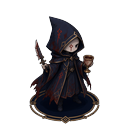
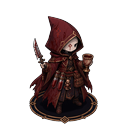
art: replace official 8-ally idles with approved color and gear pass
Swap in the approved Q-version idles with stronger per-role color accents and 5–7 obvious gear pieces, and note that density in STYLE_GUIDE and USAGE.

Changed region(s): [[0.2188, 0.125, 0.7812, 0.9688], [0.3438, 0.8125, 0.375, 0.8438]]

diff --git a/docs/art/USAGE.md b/docs/art/USAGE.md
@@ -66,3 +66,5 @@ IDs: `ashguard` (灰烬卫士), `oathblade` (烬誓剑士), `lampsister` (墓灯
 | Ground ring | Grave-lamp gold `#C9A227` |
 
 Import as Sprite (2D and UI). Y-sort by the foot / ring pivot. These are idle stills only — no animation sets in this pack.
+
+Official idles use stronger per-role accent colors (linings, sashes, cloak panels, weapon glow) so the roster is not a single navy mass, and they are accessory-dense with layered materials and chunky ornaments. Each official idle should show 5–7 fairly obvious gear pieces, readable at 64 px (not tiny trim; the gold ground ring does not count). Palette and import settings are otherwise unchanged. The M0 dice / TestArena pack is not voided.
